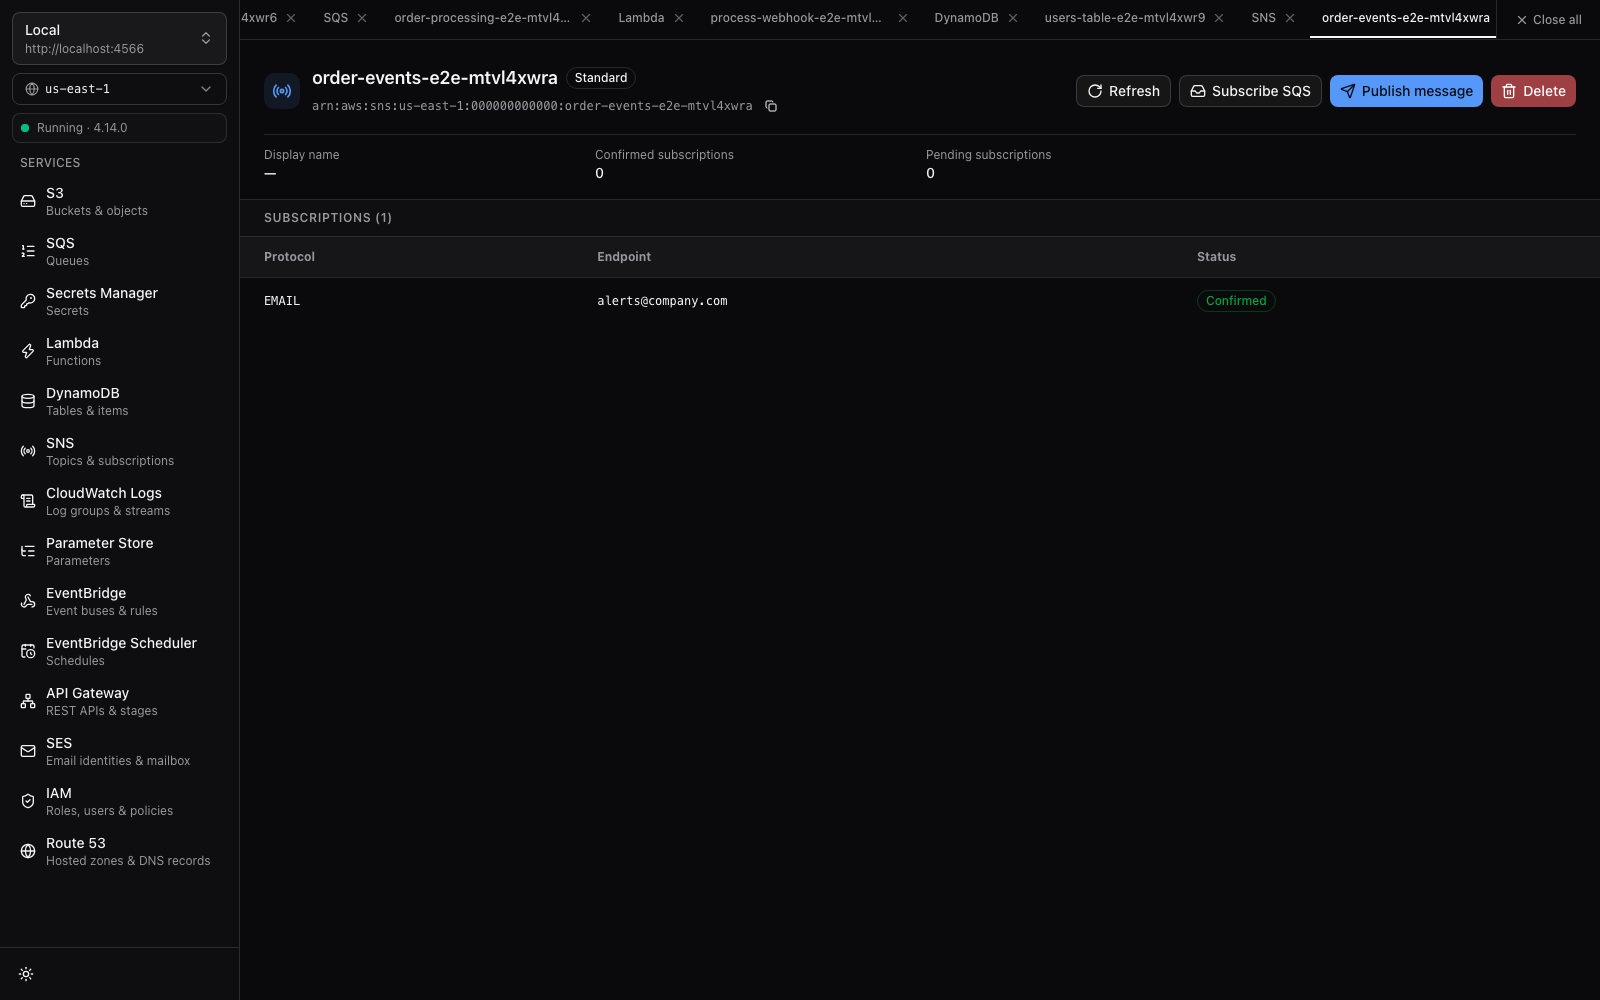
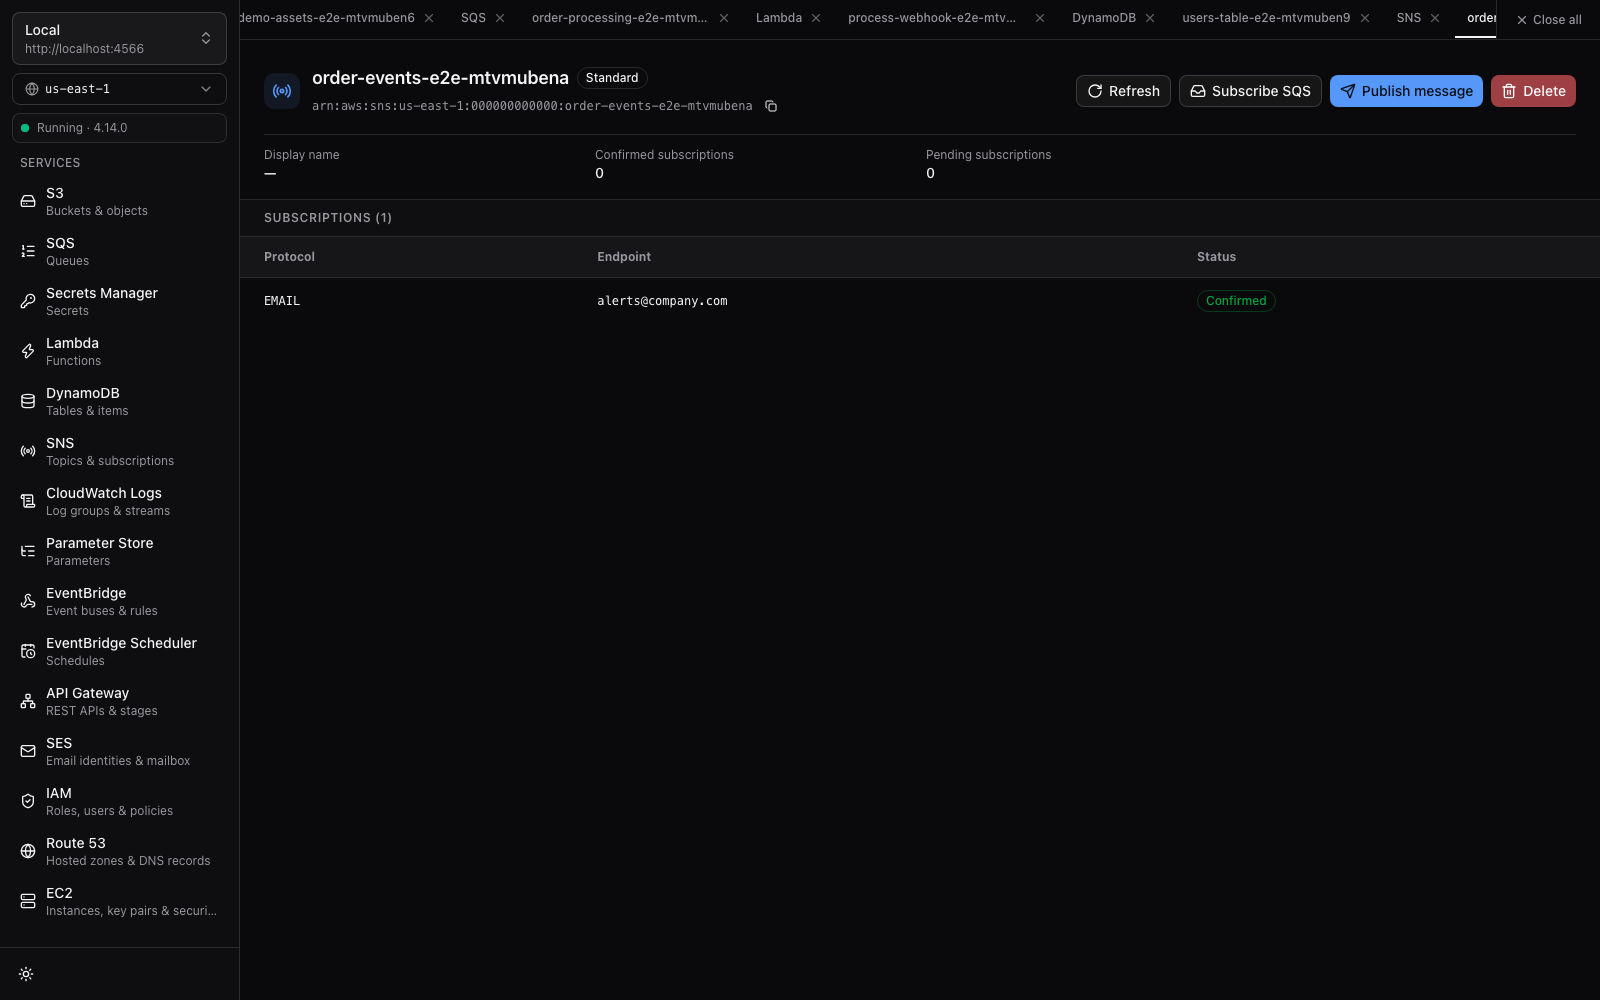
test(e2e): EC2 instances, key pairs, and security groups flows against LocalStack

diff --git a/e2e/ec2.spec.ts b/e2e/ec2.spec.ts
@@ -1,0 +1,176 @@
+import { test, expect } from "@playwright/test";
+import {
+  DescribeInstancesCommand,
+  TerminateInstancesCommand,
+  DescribeKeyPairsCommand,
+  DeleteKeyPairCommand,
+  DescribeSecurityGroupsCommand,
+  DeleteSecurityGroupCommand,
+} from "@aws-sdk/client-ec2";
+import { requireLocalStack, makeClients, unique } from "./helpers";
+
+test.describe("EC2 e2e", () => {
+  const { ec2 } = makeClients();
+  const sgName = unique("web-sg");
+  const keyName = unique("ssh-key");
+  const instanceName = unique("ec2-inst");
+
+  test.beforeAll(async () => {
+    await requireLocalStack();
+  });
+
+  test.afterAll(async () => {
+    // Best-effort cleanup
+    try {
+      const keysRes = await ec2.send(new DescribeKeyPairsCommand({}));
+      for (const k of keysRes.KeyPairs ?? []) {
+        if (k.KeyName && k.KeyName.includes("e2e")) {
+          await ec2.send(new DeleteKeyPairCommand({ KeyName: k.KeyName }));
+        }
+      }
+    } catch {
+      // ignore
+    }
+
+    try {
+      const sgsRes = await ec2.send(new DescribeSecurityGroupsCommand({}));
+      for (const sg of sgsRes.SecurityGroups ?? []) {
+        if (sg.GroupName && sg.GroupName.includes("e2e") && sg.GroupId) {
+          await ec2.send(
+            new DeleteSecurityGroupCommand({ GroupId: sg.GroupId }),
+          );
+        }
+      }
+    } catch {
+      // ignore
+    }
+
+    try {
+      const instsRes = await ec2.send(new DescribeInstancesCommand({}));
+      const instIds: string[] = [];
+      for (const res of instsRes.Reservations ?? []) {
+        for (const inst of res.Instances ?? []) {
+          if (inst.InstanceId && inst.State?.Name !== "terminated") {
+            const hasE2e = inst.Tags?.some((t) =>
+              t.Value?.includes("e2e"),
+            );
+            if (hasE2e) instIds.push(inst.InstanceId);
+          }
+        }
+      }
+      if (instIds.length > 0) {
+        await ec2.send(
+          new TerminateInstancesCommand({ InstanceIds: instIds }),
+        );
+      }
+    } catch {
+      // ignore
+    }
+  });
+
+  test("full EC2 lifecycle: instances, key pairs, security groups with rule matrix", async ({
+    page,
+  }) => {
+    await page.goto("/");
+
+    // 1. Open EC2 service via sidebar
+    await page
+      .locator("aside")
+      .getByRole("button", { name: /^EC2/ })
+      .click();
+    await expect(page.getByRole("heading", { name: "EC2" })).toBeVisible();
+    await expect(page.getByText("Stateful Mock")).toBeVisible();
+
+    // 2. Key Pairs Lifecycle
+    await page.getByRole("tab", { name: /Key Pairs/i }).click();
+    await page.getByRole("button", { name: "Create Key Pair" }).first().click();
+    const kpDialog = page.getByRole("dialog");
+    await expect(
+      kpDialog.getByRole("heading", { name: /Create SSH Key Pair/i }),
+    ).toBeVisible();
+    await kpDialog.getByLabel("Key Pair Name").fill(keyName);
+    await kpDialog.getByRole("button", { name: "Create Key Pair" }).click();
+
+    // Assert key pair appears in table
+    await expect(page.locator("table").getByText(keyName)).toBeVisible({
+      timeout: 10_000,
+    });
+
+    // Delete key pair
+    await page
+      .getByRole("button", { name: new RegExp(`Delete key pair ${keyName}`) })
+      .click();
+    await page.getByRole("button", { name: "Delete" }).click();
+    await expect(page.locator("table").getByText(keyName)).not.toBeVisible();
+
+    // 3. Security Groups Lifecycle & Rule Matrix
+    await page.getByRole("tab", { name: /Security Groups/i }).click();
+    await page.getByRole("button", { name: "Create Security Group" }).first().click();
+    const sgDialog = page.getByRole("dialog");
+    await expect(
+      sgDialog.getByRole("heading", { name: /Create Security Group/i }),
+    ).toBeVisible();
+    await sgDialog.getByLabel("Security Group Name").fill(sgName);
+    await sgDialog.getByLabel("Description").fill("E2E Test Security Group");
+    await sgDialog.getByRole("button", { name: "Create Security Group" }).click();
+
+    // Assert appears in table
+    const sgRow = page.locator("tr", { hasText: sgName });
+    await expect(sgRow).toBeVisible({ timeout: 10_000 });
+
+    // Manage Rules
+    await sgRow.getByRole("button", { name: /Manage Rules/i }).click();
+    await expect(
+      page.getByRole("heading", { name: sgName }),
+    ).toBeVisible();
+
+    // Add Inbound Rule
+    await page
+      .getByRole("button", { name: "Add Inbound Rule" })
+      .first()
+      .click();
+    const ruleDialog = page.getByRole("dialog");
+    await expect(
+      ruleDialog.getByRole("heading", { name: /Add Inbound Rule/i }),
+    ).toBeVisible();
+    await ruleDialog.getByLabel("Description").fill("Allow HTTPS traffic");
+    await ruleDialog.getByRole("button", { name: "Save Rule" }).click();
+
+    // Assert port 443 rule in matrix
+    await expect(page.getByText("443")).toBeVisible({ timeout: 10_000 });
+    await expect(page.getByText("Allow HTTPS traffic")).toBeVisible();
+
+    // Revoke Rule
+    await page
+      .getByRole("button", { name: /Revoke rule for port 443/i })
+      .click();
+    await page.getByRole("button", { name: "Revoke" }).click();
+    await expect(page.locator("table").getByText("Allow HTTPS traffic")).not.toBeVisible();
+
+    // Delete Security Group
+    await page.getByRole("button", { name: /^Delete$/i }).click();
+    await page
+      .getByRole("button", { name: "Delete Security Group" })
+      .click();
+
+    // Wait for SG tab to close and return to EC2
+    await expect(page.getByRole("heading", { name: sgName })).not.toBeVisible();
+
+    // 4. Mock Instances View & Launch
+    await page.locator("aside").getByRole("button", { name: /^EC2/ }).click();
+    await page.getByRole("tab", { name: /Instances/i }).click();
+    await page
+      .getByRole("button", { name: "Launch Instance" })
+      .first()
+      .click();
+    const instDialog = page.getByRole("dialog");
+    await expect(
+      instDialog.getByRole("heading", { name: /Launch Mock Instance/i }),
+    ).toBeVisible();
+    await instDialog.getByLabel(/Name tag/i).fill(instanceName);
+    await instDialog.getByRole("button", { name: "Launch Instance" }).click();
+
+    // Assert instance appears
+    await expect(page.locator("table").getByText(instanceName)).toBeVisible({ timeout: 10_000 });
+  });
+});

diff --git a/e2e/screenshots.spec.ts b/e2e/screenshots.spec.ts
@@ -81,6 +81,15 @@ import {
   DeleteHostedZoneCommand,
   ListResourceRecordSetsCommand,
 } from "@aws-sdk/client-route-53";
+import {
+  CreateSecurityGroupCommand,
+  AuthorizeSecurityGroupIngressCommand,
+  DeleteSecurityGroupCommand,
+  CreateKeyPairCommand,
+  DeleteKeyPairCommand,
+  RunInstancesCommand,
+  TerminateInstancesCommand,
+} from "@aws-sdk/client-ec2";
 import { GetQueueAttributesCommand } from "@aws-sdk/client-sqs";
 import { zipSync, strToU8 } from "fflate";
 import { requireLocalStack, makeClients, unique } from "./helpers";
@@ -88,7 +97,12 @@ import { requireLocalStack, makeClients, unique } from "./helpers";
 test.describe("@screenshot Capture screenshots", () => {
   test.use({ viewport: { width: 1600, height: 1000 } });
 
-  const { s3, sqs, lambda, dynamodb, dynamoDoc, sns, logs, ssm, eventbridge, scheduler, apigateway, ses, iam, route53 } = makeClients();
+  const { s3, sqs, lambda, dynamodb, dynamoDoc, sns, logs, ssm, eventbridge, scheduler, apigateway, ses, iam, route53, ec2 } = makeClients();
+  const ec2SgName = "demo-web-sg";
+  let ec2SgId = "";
+  const ec2KeyName = "production-bastion-key";
+  const ec2InstanceName = "api-server-prod";
+  let ec2InstanceId = "";
   const iamRoleName = unique("app-execution-role");
   const r53ZoneName = `${unique("zone").toLowerCase()}.local`;
   let r53ZoneId = "";
@@ -535,6 +549,80 @@ test.describe("@screenshot Capture screenshots", () => {
         }),
       );
     }
+
+    // 14. Seed EC2 demo resources
+    try {
+      const sgRes = await ec2.send(
+        new CreateSecurityGroupCommand({
+          GroupName: ec2SgName,
+          Description: "Production Web Firewall",
+        }),
+      );
+      if (sgRes.GroupId) {
+        ec2SgId = sgRes.GroupId;
+        await ec2.send(
+          new AuthorizeSecurityGroupIngressCommand({
+            GroupId: ec2SgId,
+            IpPermissions: [
+              {
+                IpProtocol: "tcp",
+                FromPort: 80,
+                ToPort: 80,
+                IpRanges: [{ CidrIp: "0.0.0.0/0", Description: "HTTP" }],
+              },
+              {
+                IpProtocol: "tcp",
+                FromPort: 443,
+                ToPort: 443,
+                IpRanges: [{ CidrIp: "0.0.0.0/0", Description: "HTTPS" }],
+              },
+              {
+                IpProtocol: "tcp",
+                FromPort: 22,
+                ToPort: 22,
+                IpRanges: [{ CidrIp: "10.0.0.0/16", Description: "SSH Bastion" }],
+              },
+            ],
+          }),
+        );
+      }
+    } catch {
+      // ignore
+    }
+
+    try {
+      await ec2.send(
+        new CreateKeyPairCommand({
+          KeyName: ec2KeyName,
+        }),
+      );
+    } catch {
+      // ignore
+    }
+
+    try {
+      const runRes = await ec2.send(
+        new RunInstancesCommand({
+          ImageId: "ami-12345678",
+          InstanceType: "t2.micro",
+          MinCount: 1,
+          MaxCount: 1,
+          KeyName: ec2KeyName,
+          SecurityGroupIds: ec2SgId ? [ec2SgId] : undefined,
+          TagSpecifications: [
+            {
+              ResourceType: "instance",
+              Tags: [{ Key: "Name", Value: ec2InstanceName }],
+            },
+          ],
+        }),
+      );
+      if (runRes.Instances?.[0]?.InstanceId) {
+        ec2InstanceId = runRes.Instances[0].InstanceId;
+      }
+    } catch {
+      // ignore
+    }
   });
 
   test.afterAll(async () => {
@@ -687,6 +775,20 @@ test.describe("@screenshot Capture screenshots", () => {
     } catch (err) {
       console.warn("Route 53 cleanup error:", err);
     }
+    // Cleanup EC2
+    if (ec2InstanceId) {
+      try {
+        await ec2.send(new TerminateInstancesCommand({ InstanceIds: [ec2InstanceId] }));
+      } catch {}
+    }
+    if (ec2SgId) {
+      try {
+        await ec2.send(new DeleteSecurityGroupCommand({ GroupId: ec2SgId }));
+      } catch {}
+    }
+    try {
+      await ec2.send(new DeleteKeyPairCommand({ KeyName: ec2KeyName }));
+    } catch {}
   });
 
   test("captures full application screenshots", async ({ page }) => {
@@ -840,5 +942,21 @@ test.describe("@screenshot Capture screenshots", () => {
     await zoneRow.click();
     await expect(page.getByText(`api.${r53ZoneName}.`).first()).toBeVisible({ timeout: 10_000 });
     await page.screenshot({ path: "docs/screenshots/route53-zone.png", animations: "disabled" });
+
+    // 14. EC2 Security Group screenshot (rules matrix)
+    await page.locator("aside").getByRole("button", { name: /^EC2/ }).click();
+    await page.getByRole("tab", { name: /Security Groups/i }).click();
+    const sgRow = page.locator("tr", { hasText: ec2SgName });
+    await expect(sgRow).toBeVisible({ timeout: 15_000 });
+    await sgRow.getByRole("button", { name: /Manage Rules/i }).click();
+    await expect(page.getByRole("heading", { name: ec2SgName })).toBeVisible({ timeout: 10_000 });
+    await expect(page.getByText("443")).toBeVisible({ timeout: 10_000 });
+    await page.screenshot({ path: "docs/screenshots/ec2-security-group.png", animations: "disabled" });
+
+    // 15. EC2 Instances screenshot
+    await page.locator("aside").getByRole("button", { name: /^EC2/ }).click();
+    await page.getByRole("tab", { name: /Instances/i }).click();
+    await expect(page.getByText(ec2InstanceName)).toBeVisible({ timeout: 15_000 });
+    await page.screenshot({ path: "docs/screenshots/ec2-instances.png", animations: "disabled" });
   });
 });

diff --git a/e2e/helpers.ts b/e2e/helpers.ts
@@ -14,6 +14,7 @@ import { APIGatewayClient } from "@aws-sdk/client-api-gateway";
 import { SESClient } from "@aws-sdk/client-ses";
 import { IAMClient } from "@aws-sdk/client-iam";
 import { Route53Client } from "@aws-sdk/client-route-53";
+import { EC2Client } from "@aws-sdk/client-ec2";
 export const ENDPOINT = process.env.LOCALSTACK_ENDPOINT || "http://127.0.0.1:4566";
 
 export async function requireLocalStack(): Promise<void> {
@@ -65,6 +66,7 @@ export function makeClients() {
     ses: new SESClient(config),
     iam: new IAMClient(config),
     route53: new Route53Client(config),
+    ec2: new EC2Client(config),
   };
 }
 
